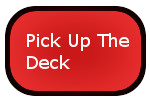
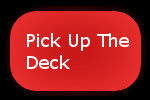
Weighted Prioritized Running Sum - Complete More Unit Tests and better Images

Changed region(s): [[0.0, 0.0, 1.0, 1.0]]

diff --git a/PygameTut/Shed2/ComputerAI.py b/PygameTut/Shed2/ComputerAI.py
@@ -23,6 +23,20 @@ class Weights:
         self.__total = 0
         self.__max_total = 25
 
+    # Method to set the starting total (Only for testing purposes)
+    def set_total(self, number):
+        self.__total = number
+
+    # Method to set max total (Used in later iteration for difficulty purposes)
+    def set_max_total(self, level):
+
+        if level == 1:
+            self.__max_total = 15
+        if level == 2:
+            self.__max_total = 25
+        if level == 3:
+            self.__max_total = 35
+
     def fill_beaten_by(self, card):
         beaten_by = []
         # If there is nothing on the top of the pile, make it seem as if there is a one, as everything should be allowed on it
@@ -352,6 +366,7 @@ class Weights:
 
                 cards_left -= (length_of_player_hand - num_of_unknown_cards)
 
+                # Calculate the probability that the card will be beaten
                 probability_to_beat = 1
                 denominator = cards_left
                 for x in range(num_of_unknown_cards):
@@ -375,6 +390,9 @@ class Weights:
                 weight = (card % 13)
                 if weight == 0:
                     weight = 13
+            # The cards cannot be beaten, return 0, if all are 0, it will just run the decision tree
+            else:
+                weight = 0
 
         print("Weight =", weight)
         return weight
@@ -441,7 +459,7 @@ class ComputerAI:
         # middlePile.playable_cards_list
         # This method will return a card which I will then move to the top of the pile somewhere else
 
-        if pile.card_on_top in self.knownCards:
+        if pile.card_on_top in self.knownCards and len(self.knownCards) != 0:
             self.knownCards.remove(pile.card_on_top)
 
         playable = []  # List of potential plays

diff --git a/PygameTut/Shed2/Unit Tests/ComputerPWTRSTest(SomeCards).py b/PygameTut/Shed2/Unit Tests/ComputerPWTRSTest(SomeCards).py
@@ -1,0 +1,44 @@
+import unittest
+from Hand import *
+from MiddlePile import *
+from ComputerAI import *
+
+
+class PWTRSSomeCardsKnownTest(unittest.TestCase):
+
+    def setUp(self):
+        self.comp_hand = HandClass()
+        self.player_hand = HandClass()
+        self.middle = Pile()
+        self.comp_ai = ComputerAI()
+
+    def testDescription(self):
+        # Test to see if when the computer knows some of the cards in the players hand,
+        # it will pick the card that has the highest probability to beat everything
+
+        self.comp_hand.hand.append(5)   # 6 of Clubs
+        self.comp_hand.hand.append(10)  # Jack of Clubs
+        self.comp_hand.hand.append(15)  # 3 of Diamonds
+        self.comp_hand.hand.append(14)  # 2 of Diamonds
+        self.comp_hand.hand.append(25)  # King of Diamonds
+
+        self.player_hand.hand.append(4)   # 5 of Clubs
+        self.player_hand.hand.append(8)   # 9 of Clubs
+        self.player_hand.hand.append(16)  # 4 of Diamonds
+        self.player_hand.hand.append(17)  # 5 of Diamonds
+        self.player_hand.hand.append(23)  # Jack of Diamonds
+
+        self.comp_ai.knownCards = [4, 8, 16, 17, 23]
+
+        self.player_hand.hand.append(26)  # Ace of Diamonds
+        self.player_hand.hand.append(27)  # 2 of Hearts
+        self.player_hand.hand.append(41)  # 3 of Spades
+        self.player_hand.hand.append(42)  # 4 of Spades
+
+        self.middle.move_card(24)  # Queen of Diamonds
+
+        self.middle.playable_cards()
+
+        test_move = self.comp_ai.play_a_card(self.comp_hand.hand, self.middle, len(self.player_hand.hand))
+
+        self.assertEquals(test_move, 25)

diff --git a/PygameTut/Shed2/Unit Tests/ComputerPWTRSTest(Truncation).py b/PygameTut/Shed2/Unit Tests/ComputerPWTRSTest(Truncation).py
@@ -1,0 +1,44 @@
+import unittest
+from Hand import *
+from MiddlePile import *
+from ComputerAI import *
+
+
+class PWTRSTruncationTest(unittest.TestCase):
+
+    def setUp(self):
+        self.comp_hand = HandClass()
+        self.player_hand = HandClass()
+        self.middle = Pile()
+        self.comp_ai = ComputerAI()
+
+    def testDescription(self):
+        # Test to see if the truncation occurs correctly
+
+        self.comp_hand.hand.append(5)   # 6 of Clubs
+        self.comp_hand.hand.append(10)  # Jack of Clubs
+        self.comp_hand.hand.append(15)  # 3 of Diamonds
+        self.comp_hand.hand.append(14)  # 2 of Diamonds
+        self.comp_hand.hand.append(25)  # King of Diamonds
+        self.comp_hand.hand.append(26)  # Ace of Diamonds
+
+        self.player_hand.hand.append(4)   # 5 of Clubs
+        self.player_hand.hand.append(8)   # 9 of Clubs
+        self.player_hand.hand.append(16)  # 4 of Diamonds
+        self.player_hand.hand.append(17)  # 5 of Diamonds
+        self.player_hand.hand.append(23)  # Jack of Diamonds
+
+        self.comp_ai.knownCards = self.player_hand.hand
+
+        self.middle.move_card(24)  # Queen of Diamonds
+
+        self.middle.playable_cards()
+
+        self.comp_ai.weights.set_total(12)
+
+        test_move = self.comp_ai.play_a_card(self.comp_hand.hand, self.middle, len(self.player_hand.hand))
+
+        # The ace should not be played as this violates the truncation (default 25) (12 + 13 = 25)
+        self.assertNotEquals(26, test_move)
+        # The king should be played (12 + 12 < 25)
+        self.assertEquals(25, test_move)

diff --git a/PygameTut/Shed2/Unit Tests/ComputerPWTRSTest(AllCards).py b/PygameTut/Shed2/Unit Tests/ComputerPWTRSTest(AllCards).py
@@ -1,0 +1,41 @@
+import unittest
+from Hand import *
+from MiddlePile import *
+from ComputerAI import *
+
+
+class PWTRSAllCardsKnownTest(unittest.TestCase):
+
+    def setUp(self):
+        self.comp_hand = HandClass()
+        self.player_hand = HandClass()
+        self.middle = Pile()
+        self.comp_ai = ComputerAI()
+
+    def testDescription(self):
+        # Test to see if when the computer knows all the cards in the players hand,
+        # it will pick the card that will beat everything
+
+        self.comp_hand.hand.append(5)   # 6 of Clubs
+        self.comp_hand.hand.append(10)  # Jack of Clubs
+        self.comp_hand.hand.append(15)  # 3 of Diamonds
+        self.comp_hand.hand.append(14)  # 2 of Diamonds
+        self.comp_hand.hand.append(25)  # King of Diamonds
+
+        self.player_hand.hand.append(4)   # 5 of Clubs
+        self.player_hand.hand.append(8)   # 9 of Clubs
+        self.player_hand.hand.append(16)  # 4 of Diamonds
+        self.player_hand.hand.append(17)  # 5 of Diamonds
+        self.player_hand.hand.append(23)  # Jack of Diamonds
+
+        self.comp_ai.knownCards = self.player_hand.hand
+
+        self.middle.move_card(24)  # Queen of Diamonds
+
+        self.middle.playable_cards()
+
+        test_move = self.comp_ai.play_a_card(self.comp_hand.hand, self.middle, len(self.player_hand.hand))
+
+        self.assertEquals(test_move, 25)
+
+

diff --git a/PygameTut/Shed2/Unit Tests/computer_move_unit_test.py b/PygameTut/Shed2/Unit Tests/computer_move_unit_test.py
@@ -6,11 +6,12 @@ from MiddlePile import *
 from ComputerAI import *
 
 
-class ComputerMoveTest(unittest.TestCase):
+class ComputerDecisionTreeMoveTest(unittest.TestCase):
 
     def setUp(self):
         self.test_hand = HandClass()
         self.middle = Pile()
+        self.comp_ai = ComputerAI()
 
     # this test will need to change/ get more advanced when more AI rules are added
     def testDescription(self):
@@ -26,7 +27,7 @@ class ComputerMoveTest(unittest.TestCase):
 
         self.middle.playable_cards()
 
-        test_move = ComputerAI.play_a_card(self.test_hand.hand, self.middle.playable_cards_list)
+        test_move = self.comp_ai.play_a_card(self.test_hand.hand, self.middle, 0)
 
         self.assertEquals(test_move, 5)
 

diff --git a/PygameTut/Shed2/Render_Images.py b/PygameTut/Shed2/Render_Images.py
@@ -586,7 +586,7 @@ class BlitPlayer:
 
         # Render the rules if it is at the beginning of the game
         if turn == 1:
-            rules, rules_rect = Load_Image.ImageLoad.image_load("rules.jpg", False)
+            rules, rules_rect = Load_Image.ImageLoad.image_load("Rules.png", False)
             screen.blit(rules, (50, 50))
 
 
